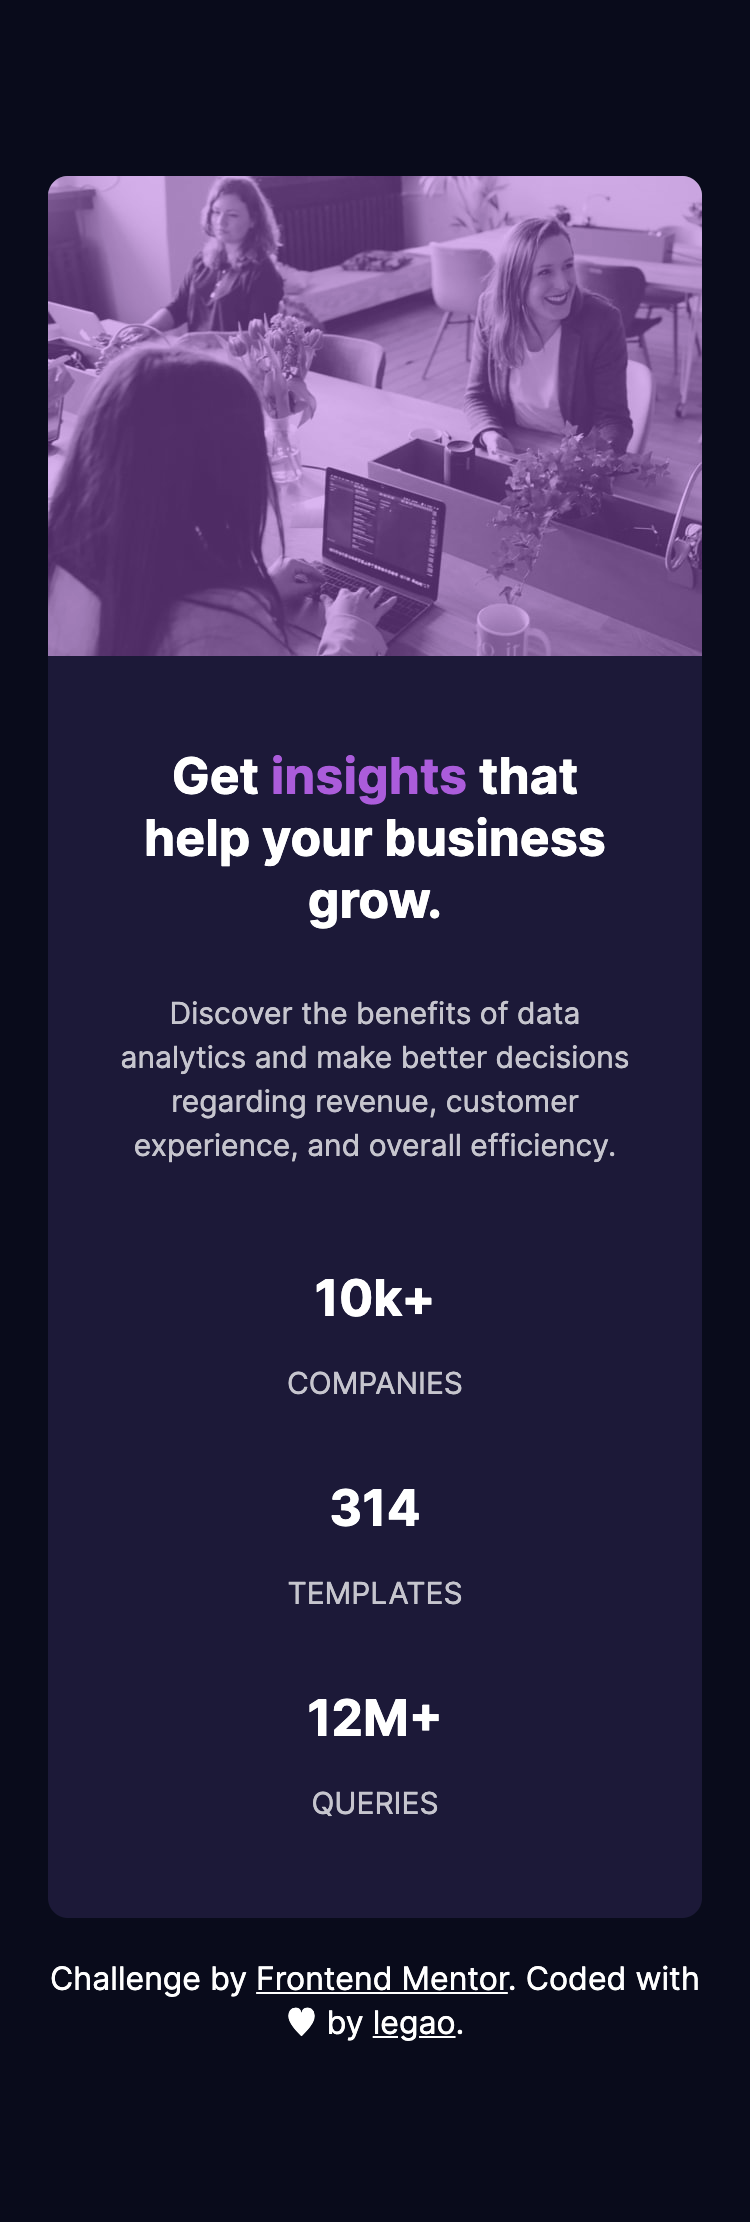
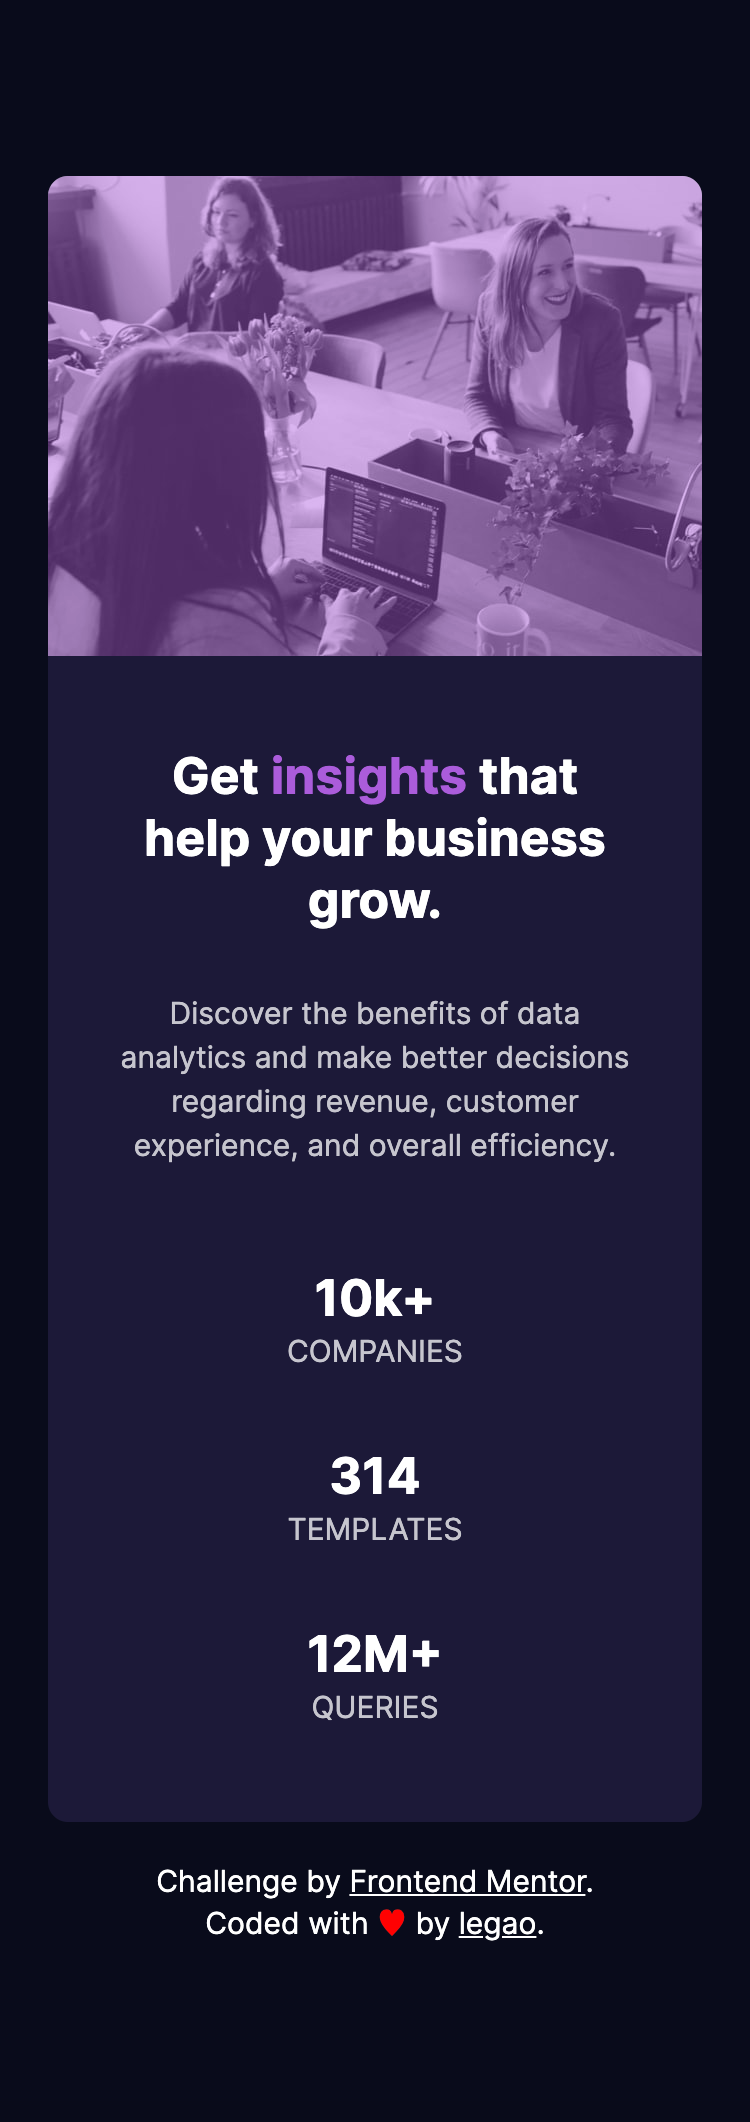
use scss

Changed region(s): [[0.0613, 0.3421, 0.92, 0.9331], [0.0613, 0.0622, 0.9507, 0.311]]

diff --git a/fm-card-component/style.scss b/fm-card-component/style.scss
@@ -1,0 +1,94 @@
+$font-family: "Inter", "Lexend Deca", sans-serif;
+$body-font-size: 15px;
+$color-main-background: hsl(233, 47%, 7%);
+$color-card-background: hsl(244, 38%, 16%);
+$color-accent: hsl(277, 64%, 61%);
+$color-overlay: hsla(277, 64%, 61%, 0.45);
+$color-main-heading: hsl(0, 0%, 100%);
+$color-main-paragraph: hsla(0, 0%, 100%, 0.75);
+$color-stat-heading: hsla(0, 0%, 100%, 0.6);
+
+* {
+	margin: 0;
+	padding: 0;
+}
+
+body {
+	color: white;
+	background-color: $color-main-background;
+	padding: 88px 24px;
+	font-family: $font-family;
+	font-size: $body-font-size;
+}
+
+main {
+	background-color: $color-card-background;
+}
+.card {
+	border-radius: 10px;
+	padding-bottom: 10px;
+}
+.image-wrapper {
+	border-radius: 10px 10px 0 0;
+	position: relative;
+	img {
+		display: block;
+		width: 100%;
+		border-radius: 10px 10px 0 0;
+	}
+
+	.overlay {
+		position: absolute;
+		top: 0;
+		width: 100%;
+		height: 100%;
+		background-color: $color-overlay;
+		border-radius: 10px 10px 0 0;
+	}
+}
+
+.info {
+	text-align: center;
+	padding-left: 35px;
+	padding-right: 35px;
+	margin-top: 45px;
+	h1 {
+		font-size: 25px;
+		line-height: 1.25;
+		color: $color-main-heading;
+		strong {
+			color: $color-accent;
+		}
+	}
+
+	p {
+		font-size: $body-font-size;
+		line-height: 1.5;
+		color: $color-main-paragraph;
+	}
+
+	.info-description {
+		margin-top: 30px;
+	}
+}
+.stat {
+	margin-top: 50px;
+	div {
+		margin-bottom: 36px;
+	}
+	p {
+		text-transform: uppercase;
+	}
+}
+
+.attribution {
+	margin-top: 20px;
+	text-align: center;
+	a {
+		color: $color-main-heading;
+	}
+}
+
+.heart {
+	color: red;
+}

diff --git a/fm-card-component/index.html b/fm-card-component/index.html
@@ -52,7 +52,8 @@
 			Challenge by
 			<a href="https://www.frontendmentor.io?ref=challenge" target="_blank"
 				>Frontend Mentor</a
-			>. Coded with &hearts; by <a href="#">legao</a>.
+			>. <br />Coded with <span class="heart">&hearts;</span> by
+			<a href="#">legao</a>.
 		</footer>
 	</body>
 </html>

diff --git a/fm-card-component/style.css b/fm-card-component/style.css
@@ -87,4 +87,8 @@ main {
 .attribution a {
   color: white;
 }
+
+.heart {
+  color: red;
+}
 /*# sourceMappingURL=style.css.map */

diff --git a/fm-card-component/README.md b/fm-card-component/README.md
@@ -38,7 +38,7 @@ Users should be able to:
 ### Built with
 
 - Semantic HTML5 markup
-- sass
+- scss
 - Mobile-first workflow
 
 ### What I learned
